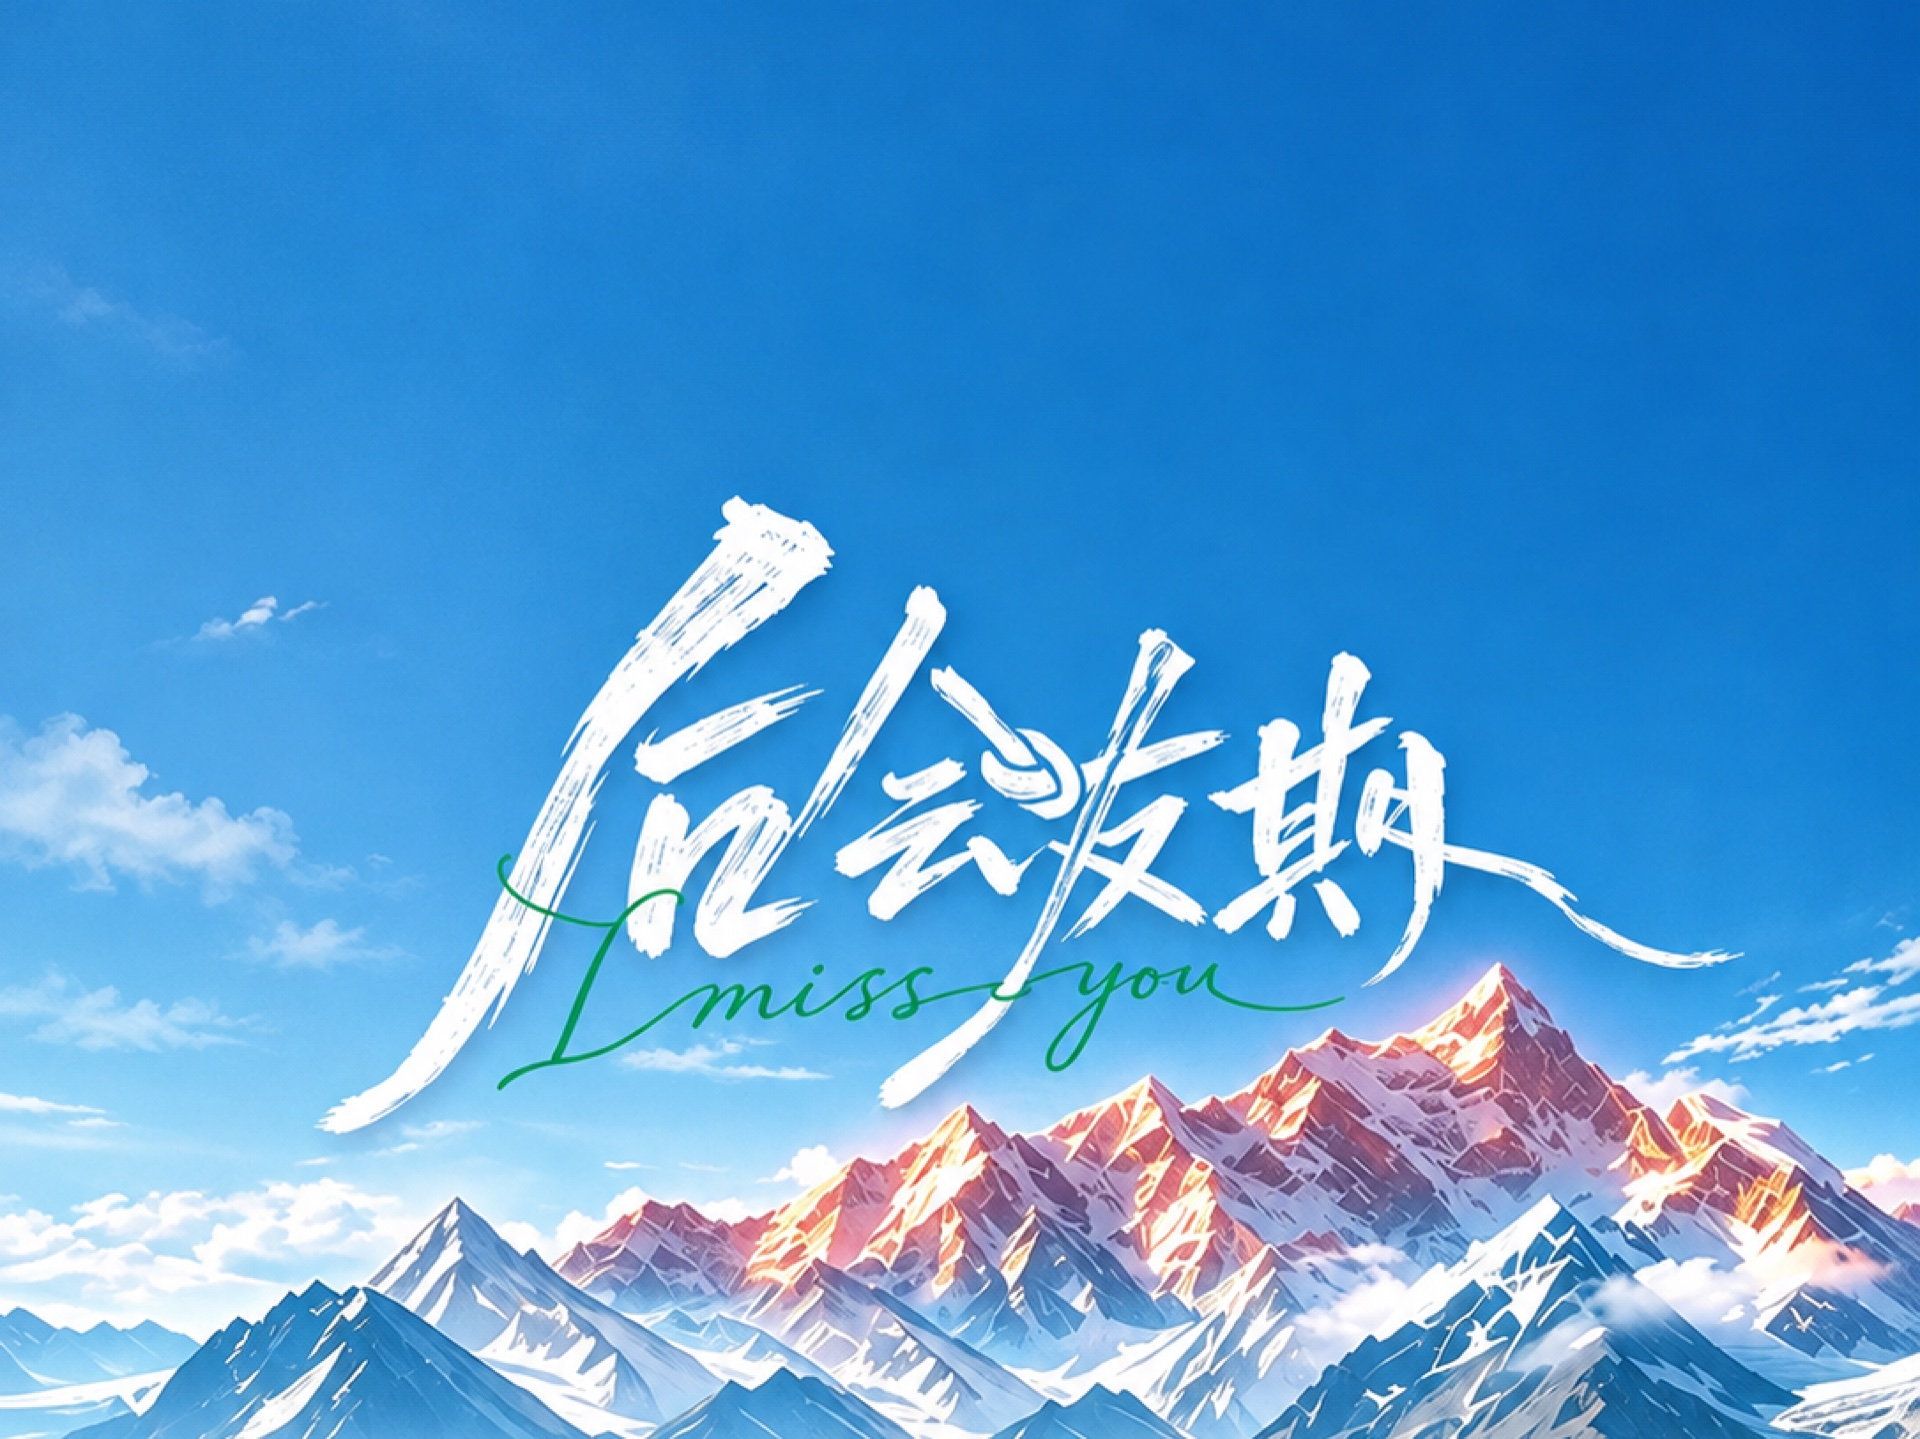
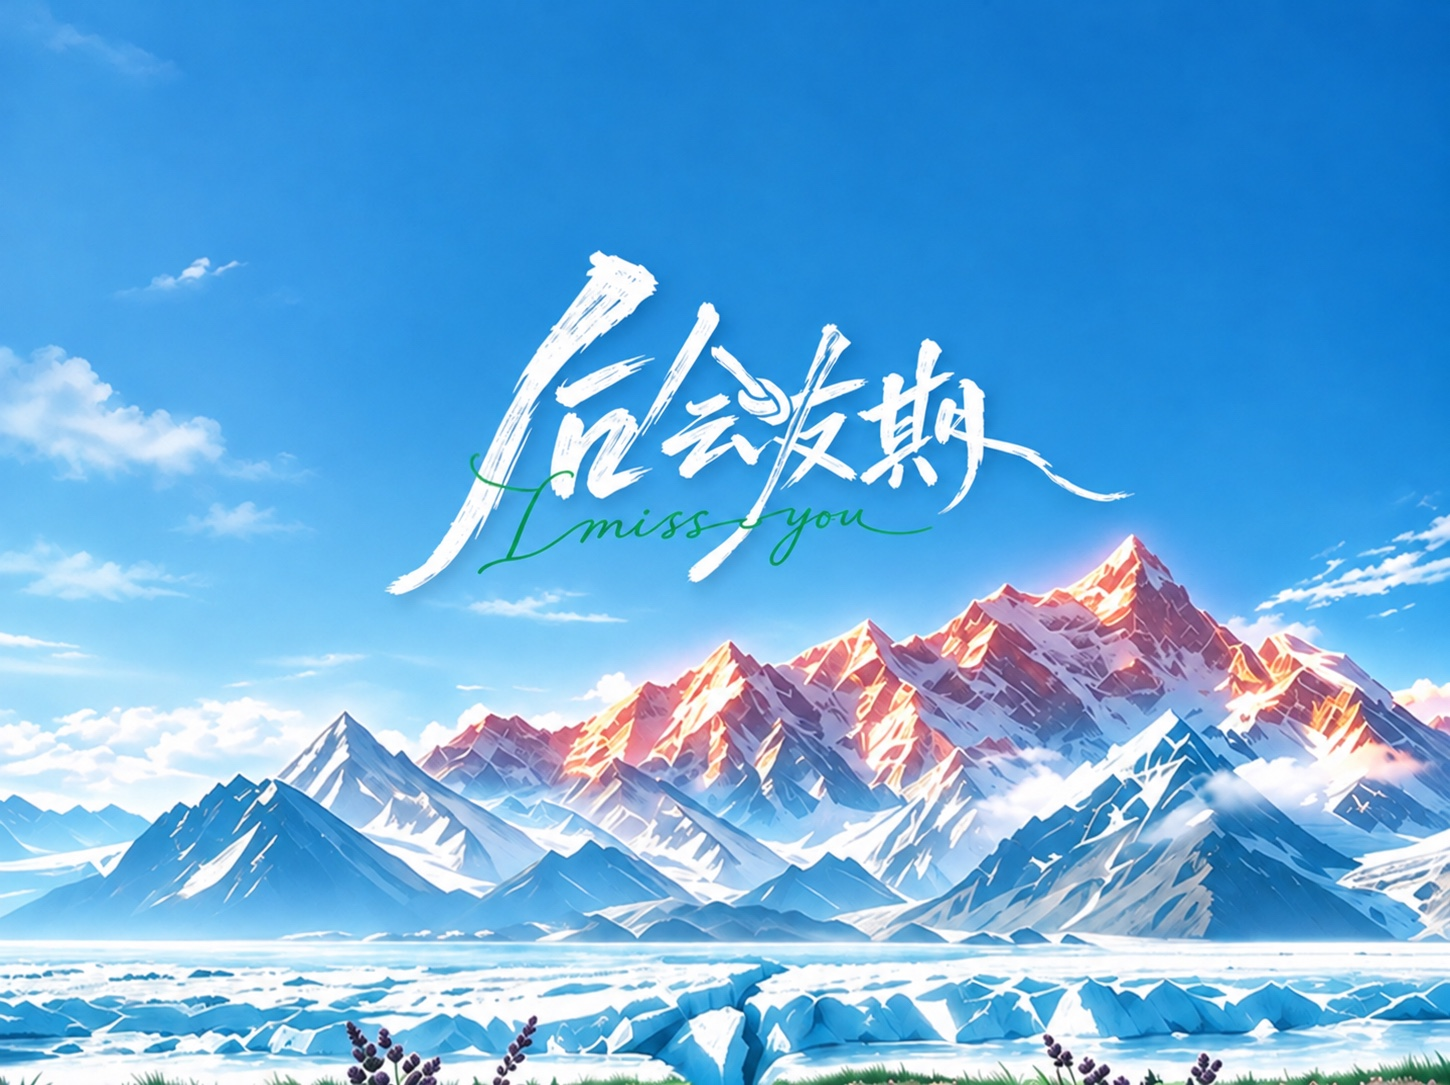
Replace the prediction page background

diff --git a/index.html b/index.html
@@ -72,7 +72,7 @@
     aspect-ratio: 2172 / 1628;
     max-height: 460px;
     margin-bottom: 6px;
-    background: url("./predictions-background.jpg?v=2") center 62% / cover no-repeat;
+    background: url("./predictions-background.jpg?v=3") center 62% / cover no-repeat;
   }
   .prediction-background::before,
   .prediction-background::after {
